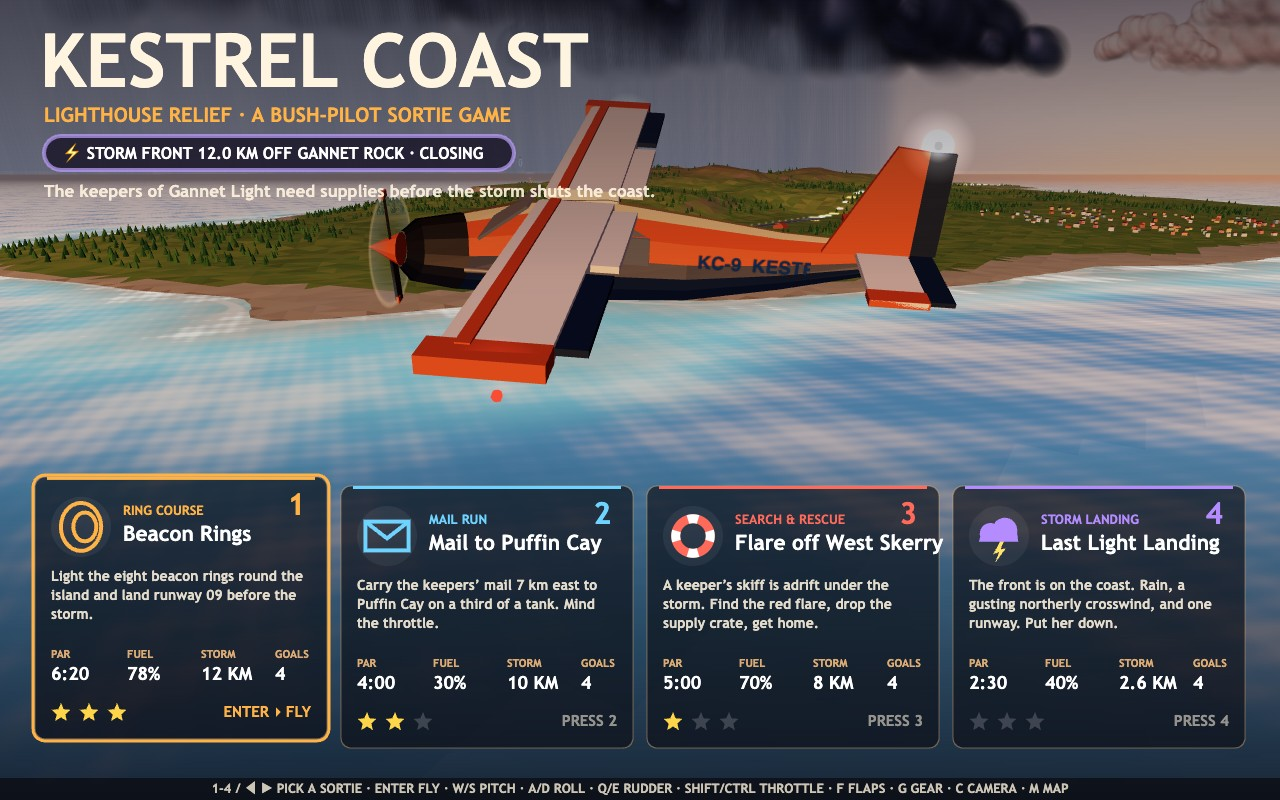
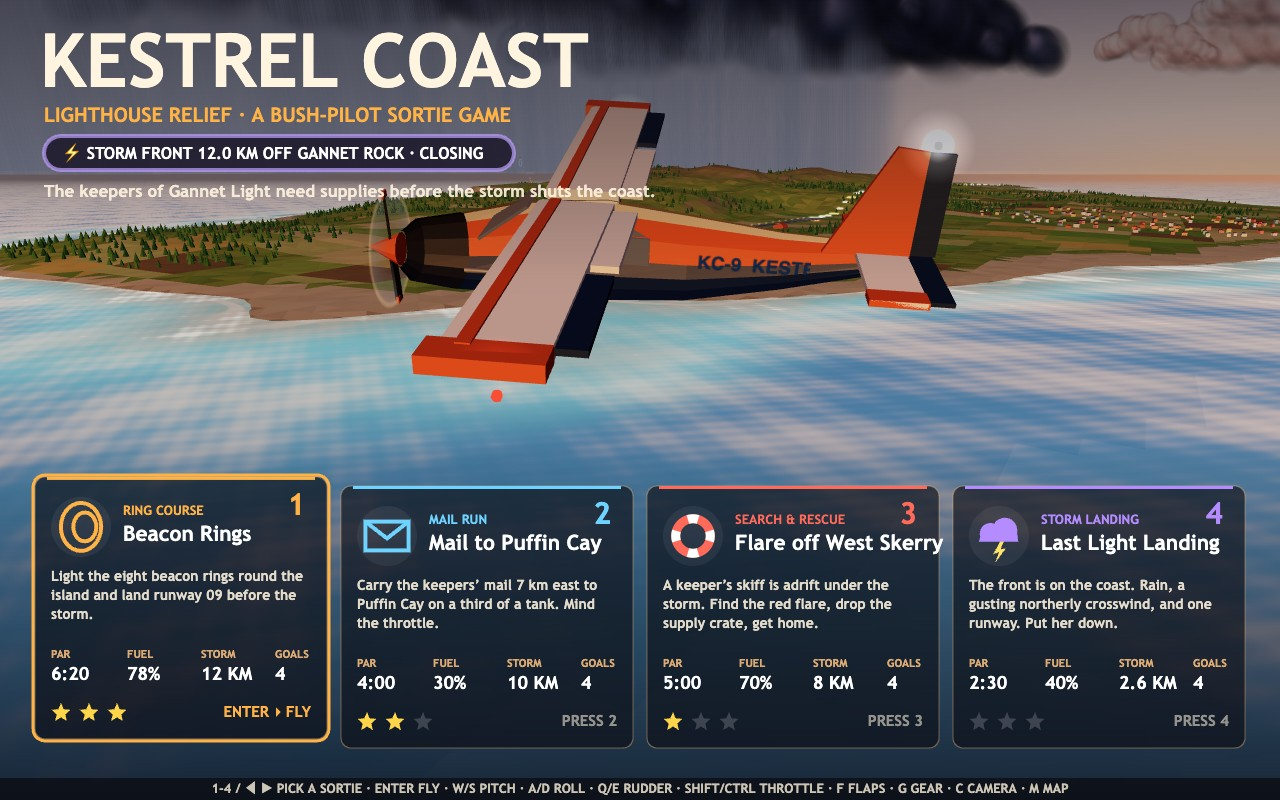
Farm-field patchwork around the town and strips, pause menu route back to the board, audio wakes on click

Changed region(s): [[0.0, 0.25, 0.3438, 0.375], [0.7188, 0.25, 1.0, 0.3125]]

diff --git a/game/src/world-terrain.js b/game/src/world-terrain.js
@@ -3,7 +3,7 @@
 // grass, olive heath, warm cliff rock, turquoise shallows), plus a height texture the sea
 // shader reads for shallows and surf.
 import * as THREE from 'three';
-import { MAP } from './places.js';
+import { AIRSTRIPS, MAP, TOWN } from './places.js';
 import { hashCell, lerp, smoothstep } from './random.js';
 import { terrainHeight } from './terrain-height.js';
 import { shareAtmosphere } from './world-sky.js';
@@ -32,6 +32,22 @@ const HEATH = new THREE.Color('#9a8450');
 const ROCK = new THREE.Color('#a8876b');
 const ROCK_LIGHT = new THREE.Color('#c9a888');
 const PEAT = new THREE.Color('#7b6a4c');
+
+const FIELDS = ['#d9b85c', '#a9b64e', '#9c7a4c', '#c7c16a', '#86a845', '#e0c77a'].map((c) => new THREE.Color(c));
+
+/** Farm fields: a patchwork on low, gentle ground near the town and the airfield. */
+function fieldColour(out, x, z, height, steep, cc, rr) {
+  if (height < 4 || height > 55 || steep > 0.16) return null;
+  const nearTown = Math.hypot(x - TOWN.x, z - TOWN.z) < 2300;
+  const nearField = Math.hypot(x - AIRSTRIPS[0].x, (z - AIRSTRIPS[0].z) * 1.6) < 1700;
+  const nearCay = Math.hypot(x - AIRSTRIPS[1].x, z - AIRSTRIPS[1].z) < 900;
+  if (!nearTown && !nearField && !nearCay) return null;
+  const fx = Math.floor((cc + (rr >> 3)) / 3);
+  const fz = Math.floor((rr + (cc >> 4)) / 4);
+  if (hashCell(fx, fz, 404) < 0.35) return null;
+  out.copy(FIELDS[Math.floor(hashCell(fx, fz, 405) * FIELDS.length)]);
+  return out;
+}
 
 function groundColour(out, height, steep, patch) {
   if (height < -0.5) {
@@ -69,7 +85,7 @@ export function createTerrainMesh(grid) {
     const steep = Math.sqrt(Math.max(0, 1 - n.y * n.y)) / Math.max(n.y, 0.05);
     const mean = (p0.y + p1.y + p2.y) / 3;
     const patch = hashCell(cc, rr, 501 + salt) * 0.65 + hashCell(cc >> 2, rr >> 2, 77) * 0.35;
-    groundColour(colour, mean, steep, patch);
+    if (!fieldColour(colour, (p0.x + p1.x + p2.x) / 3, (p0.z + p1.z + p2.z) / 3, mean, steep, cc, rr)) groundColour(colour, mean, steep, patch);
     const light = lerp(0.94, 1.06, hashCell(cc, rr, 9 + salt));
     for (const p of [p0, p1, p2]) {
       positions.push(p.x, p.y, p.z);

diff --git a/game/src/input.js b/game/src/input.js
@@ -7,7 +7,7 @@ export const ACTIONS = ['flaps', 'gear', 'camera', 'map', 'pause', 'drop', 'conf
 const KEY_ACTIONS = {
   KeyF: 'flaps', KeyG: 'gear', KeyC: 'camera', KeyM: 'map', KeyP: 'pause', Escape: 'back', KeyX: 'drop',
   Enter: 'confirm', Space: 'confirm', KeyT: 'retry', Digit1: 'pick1', Digit2: 'pick2', Digit3: 'pick3', Digit4: 'pick4', KeyI: 'invert', KeyN: 'audio',
-  ArrowLeft: 'left', ArrowRight: 'right',
+  ArrowLeft: 'left', ArrowRight: 'right', Backspace: 'board',
 };
 
 export function createInput(target = window) {
@@ -26,6 +26,7 @@ export function createInput(target = window) {
   target.addEventListener('keyup', (event) => held.delete(event.code));
   target.addEventListener('blur', () => held.clear());
   target.addEventListener('pointerdown', (event) => {
+    queue.push('wake');
     if (event.button === 0) mouse.down = true;
     mouse.x = event.clientX;
     mouse.y = event.clientY;

diff --git a/game/src/main.js b/game/src/main.js
@@ -168,6 +168,11 @@ function handleActions(actions) {
     if (game.screen !== 'fly') {
       if (action === 'confirm') game.screen = 'fly';
       if (action === 'retry') startSortie(game.selected);
+      if (action === 'board') {
+        game.screen = 'board';
+        clearWreck(world.fx);
+        showBoardSession(game.selected);
+      }
       continue;
     }
     if (action === 'flaps') {
@@ -225,7 +230,7 @@ function drawOverlay(dt) {
     g.fillStyle = 'rgba(5,6,10,0.6)';
     g.fillRect(0, 0, W, H);
     text(g, 'PAUSED', W / 2, H / 2 - 20, 56, '#fff4e0', 'center', 900);
-    text(g, 'P TO FLY ON · T TO RESTART THE SORTIE · ESC FOR THE BOARD AFTER LANDING', W / 2, H / 2 + 30, 16, '#ffb347', 'center', 800);
+    text(g, 'P / ESC FLY ON · T RESTART THE SORTIE · BACKSPACE MISSION BOARD', W / 2, H / 2 + 30, 16, '#ffb347', 'center', 800);
   }
   void dt;
 }

diff --git a/README.md b/README.md
@@ -41,7 +41,7 @@ Pick a sortie on the mission board with **1–4** and press **Enter**. Every sor
 | R (hold) | Refuel and repair while stopped on an airstrip |
 | C | Chase view / cockpit view |
 | M | Full map |
-| P / Esc | Pause |
+| P / Esc | Pause (Backspace while paused returns to the mission board) |
 | T | Fly the sortie again |
 | Hold left mouse | Steer with the mouse |
 | N | Mute |
